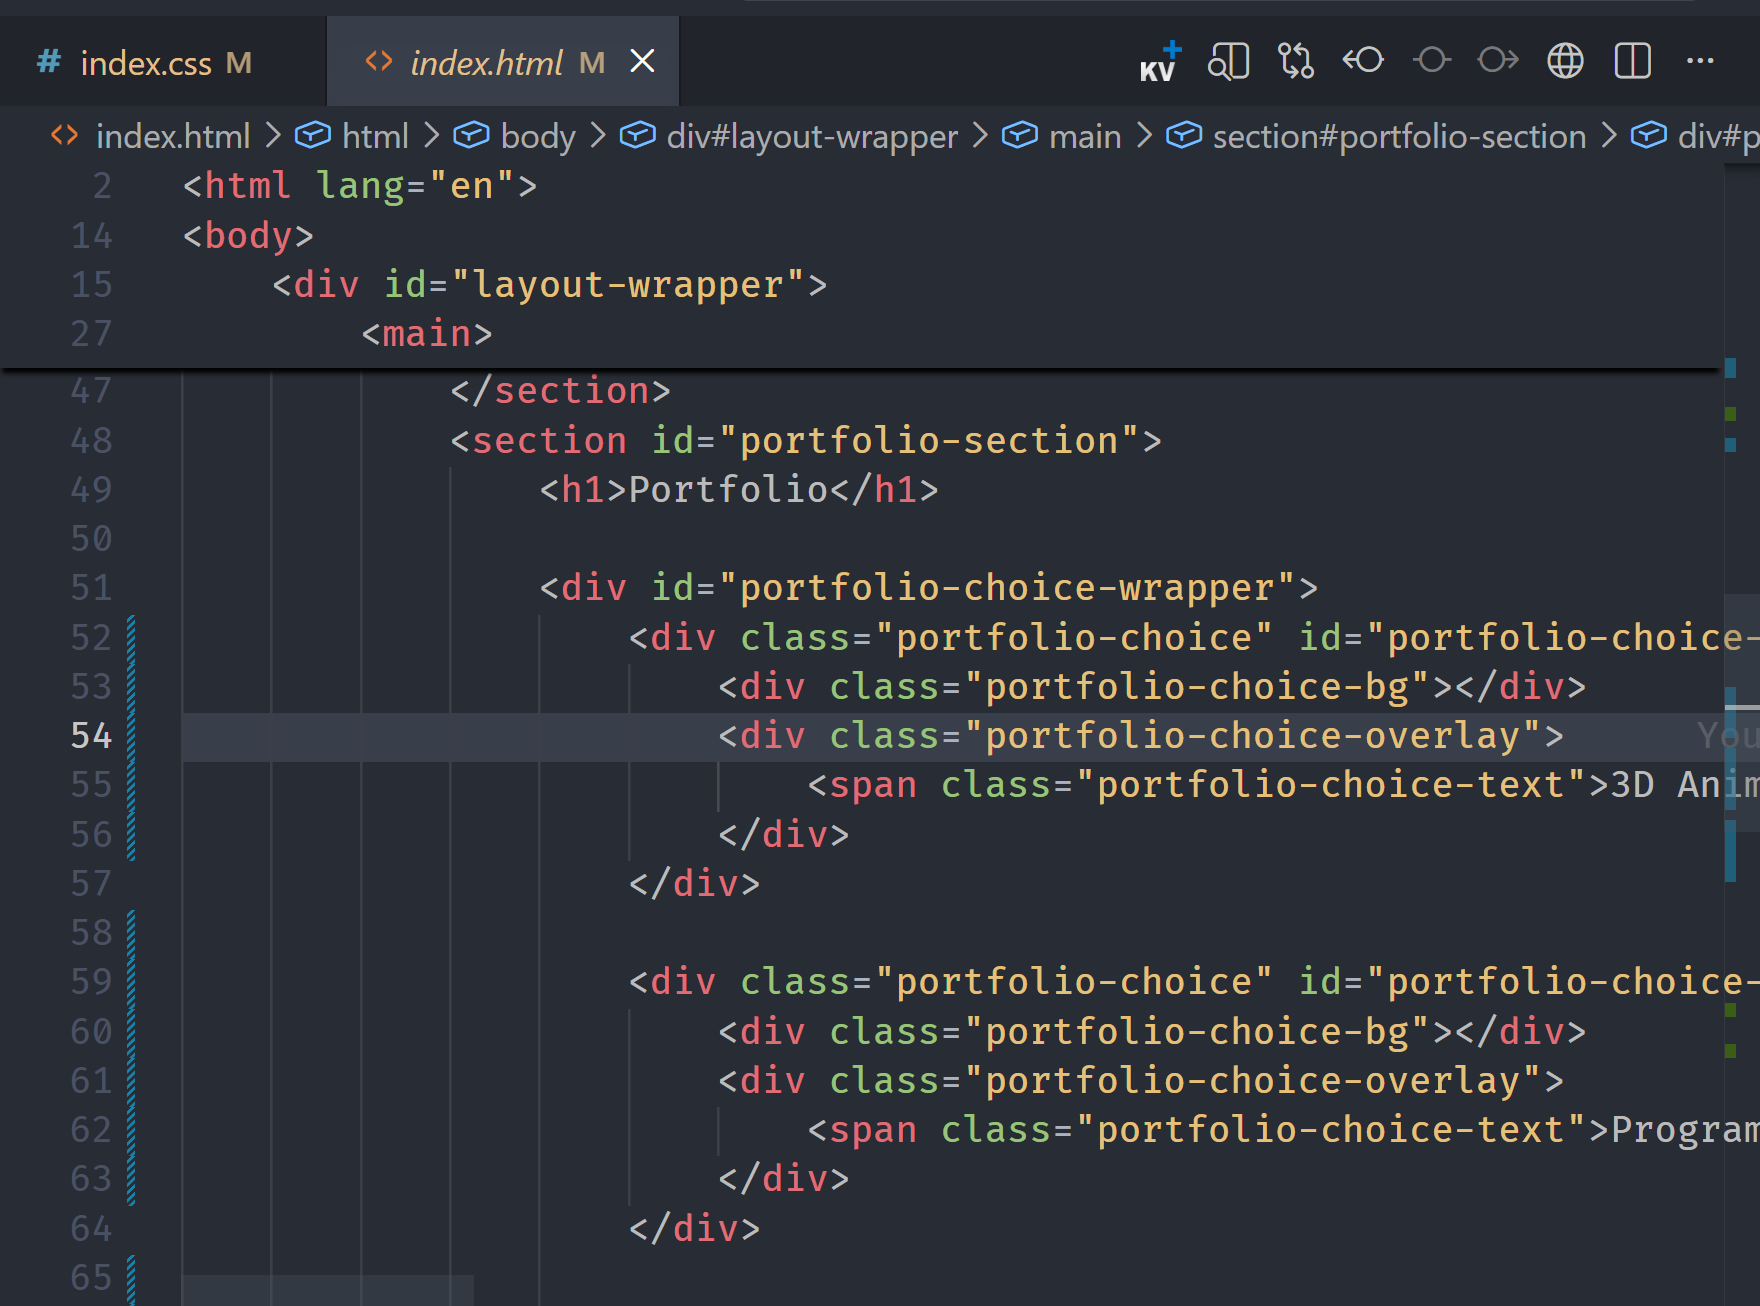
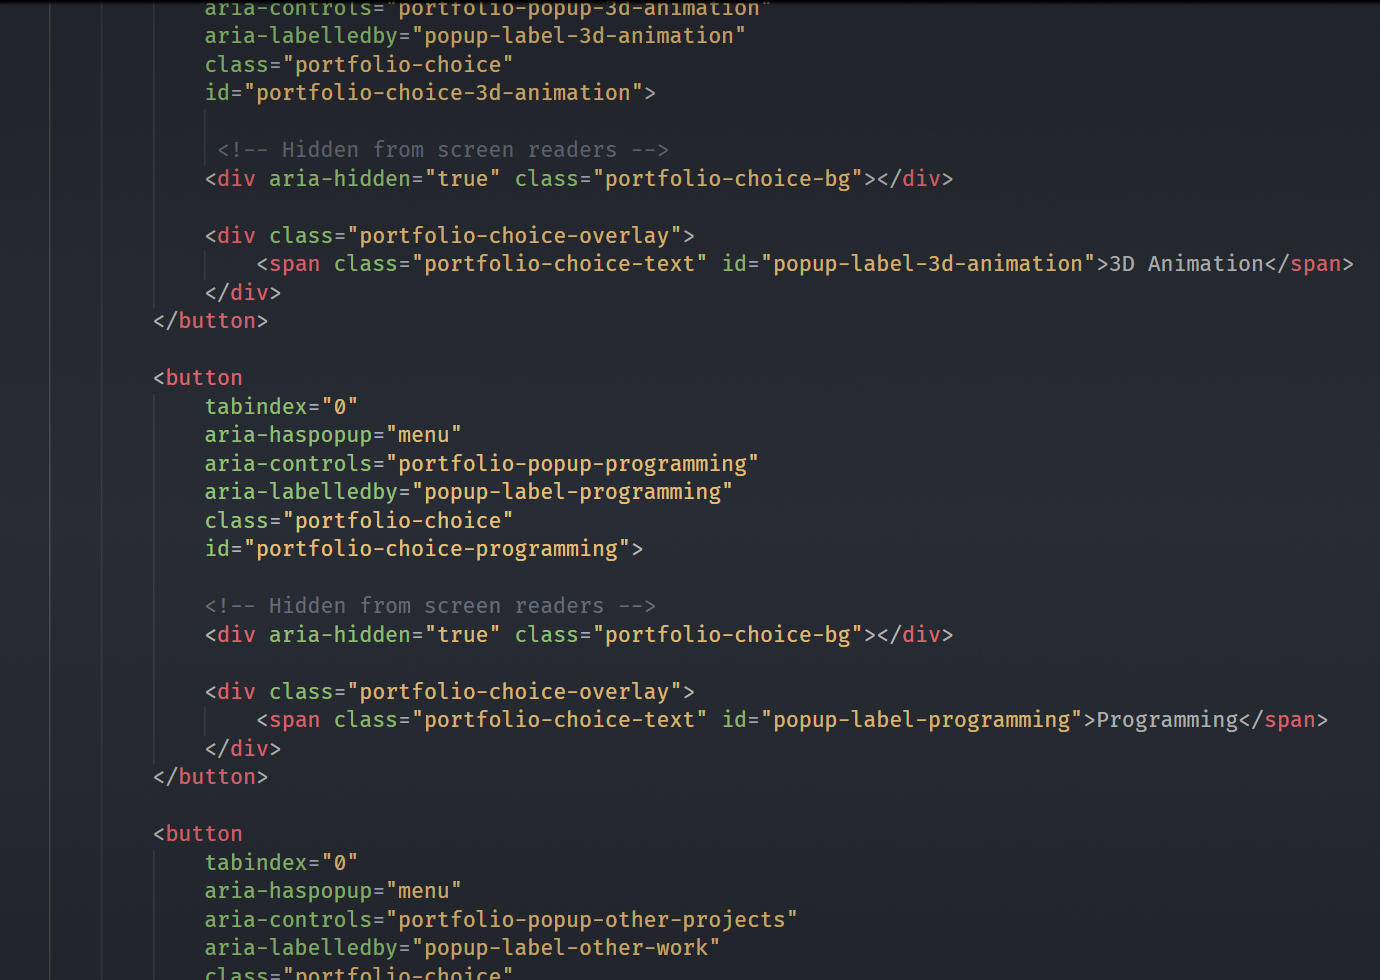
Various Variety of Changes!

diff --git a/index.html b/index.html
@@ -76,9 +76,8 @@
                 <div id="about-section-top-container">
                     <h1 id="about-section-header"><span>Hello<span aria-hidden="true"> </span>!</span></h1>
                     <pre id="first-paragraph">
-        My name is Nathanael, but online I go by <span class="my-name">Wontairr</span>. My best work can be found in my 3D Animation and Programming projects, but I also have experience in other digital work such as 3D Modeling, Sound Design, Video Editing, and more!
+    My name is Nathanael, but online I go by <span class="my-name">Wontairr</span>. I'm a skilled video game <b>3D Animator</b> and <b>Programmer</b>. I specialize in <b>Viewmodel Animation</b> and all-round gameplay programming.
         
-<!--    I have spent most of my life learning the solo game development pipeline through game engines like Unity, Godot, and Source. Overtime I've realized that while I'm quite capable by myself, <strong>my work is most enjoyable when I am part of a team.</strong> Being able to give and receive feedback on each others work is how projects get refined and become great.-->
                     <strong class="first-paragraph-end-statement" id="first-paragraph-end-statement-1">Feel free to use the buttons on the left side to navigate the site! 
 Right below this section is my portfolio.</strong>
                     <strong class="first-paragraph-end-statement" id="first-paragraph-end-statement-2">Feel free to use the buttons at the top to navigate the site! 
@@ -233,16 +232,11 @@ Right below this section is my portfolio.</strong>
                                 
                                 <section aria-labelledby="animation-tab-btn-about" role="tabpanel" id="animation-video-dropdown-about" class="animation-video-dropdown-tab hidden">
                                     <div id="animation-video-dropdown-about-txt-container">
-                                        <pre class="animation-video-dropdown-about-txt">
-Welcome to the 3D Animation Gallery! Here you can view my best work.
-
-I use the following programs:
-                                        </pre>
-                                        <ul class="animation-video-dropdown-about-txt">
-                                            <li><strong>Blender 3D</strong> - Animation & 3D Modelling</li>
-                                            <li><strong>Ableton Live</strong> - Sound Design</li>
-                                            <li><strong>Davinci Resolve</strong> <em>(Past work used other similar software)</em> - Editing the renders and sounds together</li>
-                                        </ul>
+                                        <p class="animation-video-dropdown-about-txt">I use <b>Blender</b> as my main 3D Animation software. Nothin' much else to say!</p>
+                                        
+                                        <img id="animation-video-dropdown-about-img" alt="An arrow pointing down to the Animation Gallery with the text, 'Go ahead, take a look!'" src="assets/images/portfolio/animation/about_section_note.png">
+                                    
+                                        
                                     </div>
                                 </section>
                                
@@ -482,8 +476,7 @@ I use the following programs:
     
     <footer id="footer">
         <div id="footer-text-container">
-            <p>Made by <span class="my-name">wontairr.</span></p>
-            <p>No AI was used in the creation of this site.</p>
+            <p>Made by <span class="my-name">wontairr.</span> No AI was used in the creation of this site.</p>
         </div>
     </footer>
 

diff --git a/assets/styles/index.phone_layout.css b/assets/styles/index.phone_layout.css
@@ -149,7 +149,7 @@
 	}
 
 	main p,pre {
-		font-size: 1.4rem;
+		font-size: clamp(1.2rem,1.4vw,1.4rem);
 	}
 
 
@@ -242,16 +242,8 @@
 	#light-mode-btn {
 		width:clamp(6rem,15vw,15rem);
 		height: 3rem;
-		padding: 0;
-
-		cursor: pointer;
-		
-		position: relative;
-
-		display:inline-block;
-		
-		margin-left: auto;
 	}
+
 	#light-mode-btn[aria-checked="true"] #light-mode-btn-icon-moon {
 		color:white;
 	}
@@ -259,58 +251,9 @@
 		color:white;
 	}
 
-	#light-mode-btn-interior {
-		display: flex;
-		align-items: center;
-		justify-content: center;
-		
-		padding:0;
-		
-		width: 100%;
-		
-		height: 100%;
-		
-		box-sizing: border-box;
-						
-		pointer-events: none;
-	}
-	.light-mode-btn-icon {
-		font-size: 1.5rem;
-		width:100%;
-		height:100%;
-		
-		color:black;
-
-		z-index: 1;
-
-		display: flex;
-		align-items: center;
-		justify-content: center;
-	}
-	#light-mode-btn-selected-shade {
-		position: absolute;
-
-
-		width: 50%;
-		height:100%;
-		left:0%;
-
-		background-color: var(--lightmode-color-lightmode-btn-select);
-		
-		transition: left 0.1s ease, background-color 0.25s ease;
-
-		&.light-mode-btn-dark-select {
-			left:50%;
-			background-color: var(--darkmode-color-lightmode-btn-select);
-		}
-	}
-
 	#light-mode-btn-divider {
 		width: 5px;
 		height:3rem;
-		background-color: var(--color-dark);
-
-		box-sizing: border-box;
 	}
 
 	#social-section-nav {
@@ -320,7 +263,9 @@
 	.social-section-nav-anchor {
 		margin-left:auto;
 		margin-right: auto;
-		width:20rem;
+		width:clamp(14rem,20vw,20rem);
+
+		font-size: clamp(1.45rem,2vw,2rem);
 	}
 
 	#portfolio-choice-programming {
@@ -348,37 +293,19 @@
 	}
 
 	.portfolio-popup {
-
-		
 		z-index: 99;
-		
-		display:flex;
-		justify-content: center;
-		align-items: center;
-
 	}
 
 	.portfolio-popup-content-container {
-		
-		display:flex;
-
 		position: relative !important;
-
-		flex-direction: column;
-		align-items: center;
-
-		box-shadow: 0 0 1px 10px #00000040;
 
 		width:100% !important;
 		height:100% !important;
 
 		box-sizing: border-box;
 
-		background-color: var(--color-darklight);
-		border: 0.5rem solid var(--color-fg-graydark);
 		border-radius: 0 !important;
 		
-
 		top:auto !important;
 		left:auto !important;
 
@@ -412,5 +339,29 @@
 		
 		margin-top:4rem;
 		transform:translateY( clamp(-3rem,-4vw,-3rem) );
+	}
+	
+	#footer-text-container p {
+		font-size: 1rem !important;
+		text-wrap-mode: wrap;
+		line-height:1.15rem;
+	}
+	
+	@media all and (max-height:950px) {
+		#first-paragraph-end-statement-1 {
+			display:none !important;
+		}
+		#first-paragraph-end-statement-2 {
+			display:none !important;
+		}
+		#first-paragraph-end-statement-3 {
+			display:none !important;
+		}
+		#first-paragraph {
+			height:40vh !important;
+		}
+		#about-section-scroll-indicator {
+			flex-grow: inherit;
+		}
 	}
 }

diff --git a/assets/styles/index.portfolio.popups.animation.css b/assets/styles/index.portfolio.popups.animation.css
@@ -145,12 +145,12 @@
 */
 #animation-video-dropdown-about {
     width:100%;
-    height:97%;
+    height:100%;
     
     background-color: var(--color-fg-graylight);
     border-bottom:0.5rem solid var(--color-fg-graydark);
 
-    overflow-y:scroll;
+    overflow-y:hidden;
     overflow-x:hidden;
 }
 
@@ -161,15 +161,27 @@
     line-height: 1.85rem;
     width:100%;
     height:100%;
+
+    font-size: 1.5rem;
     
     word-spacing: normal;
-    font-family: var(--font-roboto);
+    font-family: var(--font-space-grotesk);
     
     color: var(--color-text-dark);
 }
 #animation-video-dropdown-about-txt-container li {
     font-family: var(--font-space-grotesk);
     margin-top:1rem;
+}
+#animation-video-dropdown-about-img-wrapper {
+    width:100%;
+    border:2px solid red;
+}
+#animation-video-dropdown-about-img {
+    width:clamp(20rem,40vw,40rem);
+    float:right;
+    
+ margin-right: clamp(3rem,5vw,5rem);   transform: rotate(8deg);
 }
 
 /*

diff --git a/assets/styles/index.css b/assets/styles/index.css
@@ -215,7 +215,7 @@ main {
 /* Headers for each section. */
 .main-section h1 {
     font-family: "Cormorant Garamond", serif;
-    font-size:clamp(7rem,16vw,16rem);
+    font-size:clamp(6.4rem,16vw,16rem);
     font-weight: bold;
     
     color: var(--color-text-dark);
@@ -246,7 +246,6 @@ p,pre {
 }
 
 main p,pre {
-    word-spacing: 0.1em;
     font-size: 1.5rem;
 }
 
@@ -385,6 +384,6 @@ FOOTER
     padding: 1.5rem;
     
     align-items: center;
-    
+
     height:1rem;
 }

diff --git a/assets/scripts/index.js b/assets/scripts/index.js
@@ -8,9 +8,12 @@ const root = document.documentElement;
 
 let lightMode = "light";
 
-// FIXME: Doesn't always work at low res.
 function resizeAboutSection()
 {
+    // Don't resize if we're on a mobile device.
+    if (window.matchMedia("all and (max-width: 1500px)").matches)
+        return;
+
     const newHeight = Math.max(aboutSection.clientHeight,window.innerHeight).toString() + "px";
     aboutSection.style.minHeight = newHeight;
 }

diff --git a/assets/styles/index.phone_layout.popups.animation.css b/assets/styles/index.phone_layout.popups.animation.css
@@ -35,6 +35,10 @@
 		padding: 0.5rem;
 	}
 
+	#animation-video-dropdown-about-img {
+		margin-right: 0;
+	}
+
 	#portfolio-popup-3d-animation-gallery {
 		width:90%;
 		height:100%;
@@ -65,4 +69,9 @@
 	}
 }
 
+@media all and (prefers-reduced-motion: reduce) {
+	#portfolio-popup-3d-animation-video-dropdown {
+		transition: none;
+	}
+}
 

diff --git a/assets/scripts/index.otherwork.js b/assets/scripts/index.otherwork.js
@@ -142,7 +142,7 @@ otherWorkImageButtons.forEach((imgBtn)=> {
 	imgBtn.setAttribute("aria-haspopup","menu");
 	imgBtn.setAttribute("aria-controls","otherwork-item-viewer");
 	imgBtn.addEventListener("click",()=>{
-		viewerLoadImages(img.dataset.sources);
+	viewerLoadImages(img.dataset.sources);
 		otherWorkViewerToggle();
 	});
 });

diff --git a/assets/styles/index.section.social.css b/assets/styles/index.section.social.css
@@ -25,6 +25,7 @@
 .social-section-anchor-contents {
     display:flex;
     align-items: center;
+
     gap:0.5rem;
 }
 .social-section-redirect-icon {
